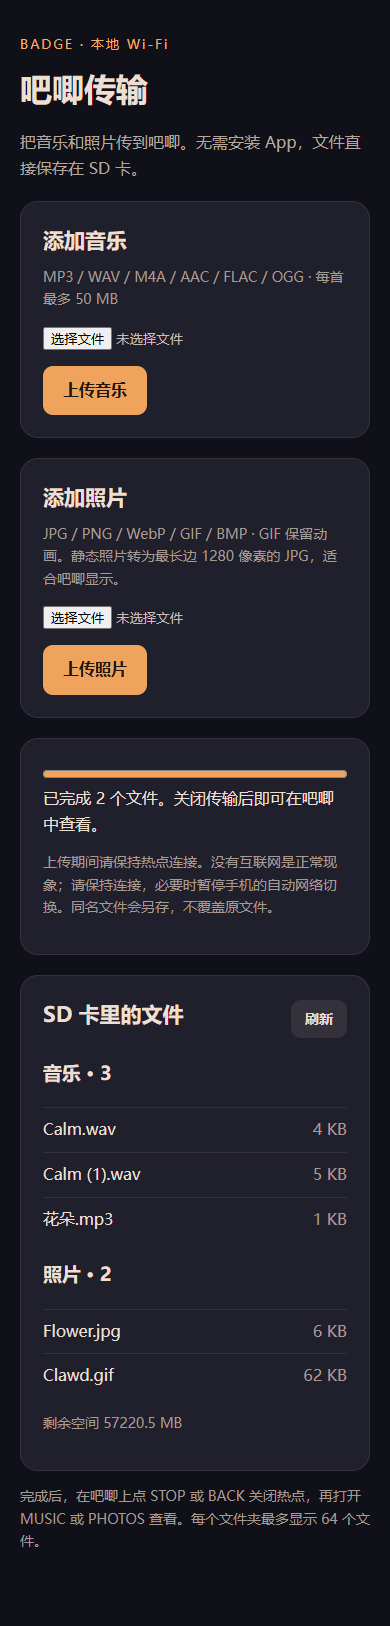
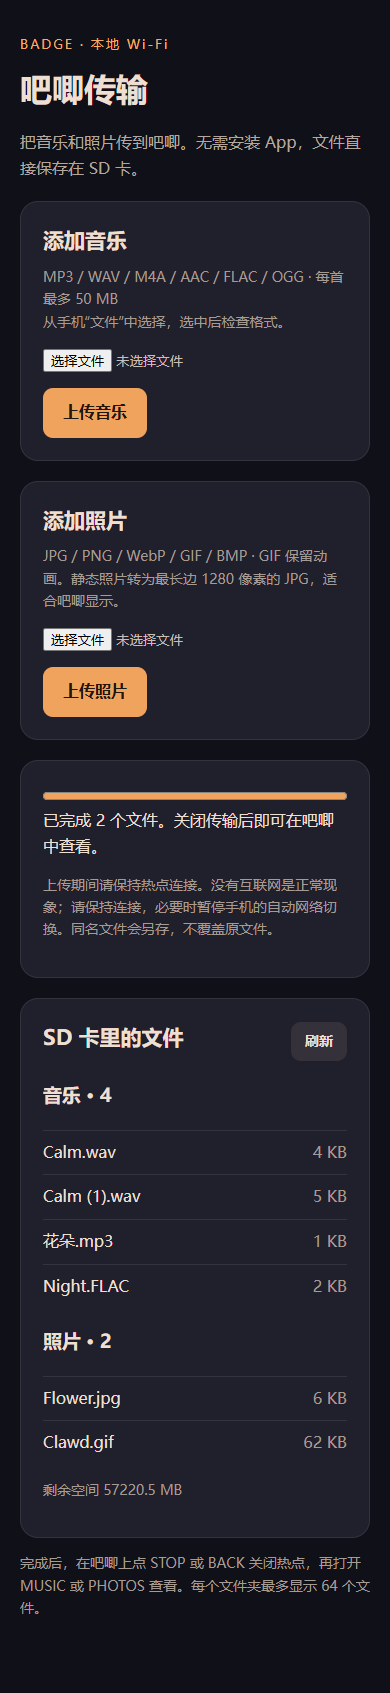
fix: allow FLAC selection in phone file pickers

diff --git a/lib/badge_transfer/src/BadgeTransfer.cpp b/lib/badge_transfer/src/BadgeTransfer.cpp
@@ -15,7 +15,7 @@ static std::atomic<bool> stopping{false};
 static const char WEB[] PROGMEM=R"HTML(<!doctype html><html lang="zh-CN"><meta charset="utf-8"><meta name="viewport" content="width=device-width,initial-scale=1"><title>吧唧传输</title>
 <style>*{box-sizing:border-box}body{margin:0;background:#101019;color:#eddfd1;font:16px/1.6 system-ui,sans-serif}main{max-width:760px;margin:auto;padding:34px 20px 60px}h1{margin:8px 0;font-size:32px}h2{font-size:21px;margin:0 0 8px}p{color:#b3a79e}.tag{color:#f4ac62;font-size:13px;letter-spacing:2px}.card{background:#20202c;border:1px solid #34323d;border-radius:18px;padding:22px;margin-top:20px}button,.pick{display:inline-block;background:#f0a35c;color:#21170f;border:0;border-radius:10px;padding:12px 20px;font:inherit;font-weight:650;cursor:pointer}input[type=file]{display:block;width:100%;margin:16px 0;color:#c8beb7}button:disabled{opacity:.45;cursor:wait}progress{width:100%;accent-color:#f0a35c;height:16px}.muted{color:#a69b93;font-size:14px}#result{white-space:pre-wrap;overflow-wrap:anywhere}.file{display:flex;justify-content:space-between;gap:16px;border-top:1px solid #34323d;padding:9px 0;overflow-wrap:anywhere}.file span:last-child{white-space:nowrap;color:#a69b93}.row{display:flex;justify-content:space-between;align-items:center;gap:16px}#refresh{padding:8px 14px;font-size:14px;background:#34313b;color:#eddfd1}</style>
 <main><div class="tag">BADGE · 本地 Wi-Fi</div><h1>吧唧传输</h1><p>把音乐和照片传到吧唧。无需安装 App，文件直接保存在 SD 卡。</p>
-<section class="card"><h2>添加音乐</h2><div class="muted">MP3 / WAV / M4A / AAC / FLAC / OGG · 每首最多 50 MB</div><input id="music" aria-label="选择音乐" type="file" multiple accept=".mp3,.wav,.m4a,.aac,.flac,.ogg"><button data-kind="music">上传音乐</button></section>
+<section class="card"><h2>添加音乐</h2><div class="muted">MP3 / WAV / M4A / AAC / FLAC / OGG · 每首最多 50 MB<br>从手机“文件”中选择，选中后检查格式。</div><input id="music" aria-label="选择音乐" type="file" multiple><button data-kind="music">上传音乐</button></section>
 <section class="card"><h2>添加照片</h2><div class="muted">JPG / PNG / WebP / GIF / BMP · GIF 保留动画。静态照片转为最长边 1280 像素的 JPG，适合吧唧显示。</div><input id="photos" aria-label="选择照片" type="file" multiple accept="image/jpeg,image/png,image/webp,image/gif,image/bmp,.bmp"><button data-kind="photos">上传照片</button></section>
 <section class="card" aria-live="polite"><progress id="progress" value="0" max="100"></progress><div id="result">等待选择文件</div><p class="muted">上传期间请保持热点连接。没有互联网是正常现象；请保持连接，必要时暂停手机的自动网络切换。同名文件会另存，不覆盖原文件。</p></section>
 <section class="card"><div class="row"><h2>SD 卡里的文件</h2><button id="refresh">刷新</button></div><div id="files">正在读取…</div></section><p class="muted">完成后，在吧唧上点 STOP 或 BACK 关闭热点，再打开 MUSIC 或 PHOTOS 查看。每个文件夹最多显示 64 个文件。</p></main>
@@ -24,7 +24,7 @@ const $=id=>document.getElementById(id);const size=n=>n>=1048576?(n/1048576).toF
 async function refresh(){try{const r=await fetch('/api/files',{cache:'no-store'});if(!r.ok)throw Error('读取失败');const d=await r.json();$('files').replaceChildren();for(const [label,key] of [['音乐','music'],['照片','photos']]){const h=document.createElement('h3');h.textContent=label+' · '+d[key].length;$('files').append(h);for(const f of d[key]){const row=document.createElement('div');row.className='file';for(const text of [f.name,size(f.bytes)]){const s=document.createElement('span');s.textContent=text;row.append(s)}$('files').append(row)}}const p=document.createElement('p');p.className='muted';p.textContent='剩余空间 '+size(d.free);$('files').append(p)}catch(e){$('files').textContent='连接中断，请检查热点连接后重试。'}}
 async function photo(file){if(/\.(gif|bmp)$/i.test(file.name))return file;const image=await createImageBitmap(file);const scale=Math.min(1,1280/Math.max(image.width,image.height));const canvas=document.createElement('canvas');canvas.width=Math.max(1,Math.round(image.width*scale));canvas.height=Math.max(1,Math.round(image.height*scale));const c=canvas.getContext('2d');c.fillStyle='#101019';c.fillRect(0,0,canvas.width,canvas.height);c.drawImage(image,0,0,canvas.width,canvas.height);image.close();const blob=await new Promise(resolve=>canvas.toBlob(resolve,'image/jpeg',.92));if(!blob)throw Error('图片转换失败');return new File([blob],file.name.replace(/\.[^.]+$/,'')+'.jpg',{type:'image/jpeg'});}
 function upload(kind,file,number,total){return new Promise((resolve,reject)=>{const x=new XMLHttpRequest();x.open('POST','/api/upload?kind='+kind+'&name='+encodeURIComponent(file.name));x.setRequestHeader('Content-Type','application/octet-stream');x.setRequestHeader('X-Badge-Upload','1');x.timeout=300000;x.upload.onprogress=e=>{if(e.lengthComputable){$('progress').value=e.loaded/e.total*100;$('result').textContent=number+' / '+total+' · '+file.name+'\n'+size(e.loaded)+' / '+size(e.total)}};x.onload=()=>{let d;try{d=JSON.parse(x.responseText)}catch{reject(Error('设备返回异常'));return}if(x.status===200)resolve(d);else reject(Error(d.error||'上传失败'))};x.onerror=()=>reject(Error('连接中断，未完成的文件不会加入相册或歌单'));x.ontimeout=()=>reject(Error('上传超时，请重试'));x.send(file)});}
-for(const button of document.querySelectorAll('[data-kind]'))button.onclick=async()=>{if(busy)return;const kind=button.dataset.kind,files=[...$(kind).files];if(!files.length){$('result').textContent='请先选择文件';return}busy=true;for(const b of document.querySelectorAll('button'))b.disabled=true;let done=0;try{for(let i=0;i<files.length;i++){let f=files[i];$('result').textContent='正在准备 '+f.name;if(kind==='photos')f=await photo(f);if(!f.size||f.size>50*1048576)throw Error(f.name+' 超过 50 MB 或为空');const result=await upload(kind,f,i+1,files.length);done++;$('result').textContent='已保存 '+result.name}$(kind).value='';$('progress').value=100;$('result').textContent='已完成 '+done+' 个文件。关闭传输后即可在吧唧中查看。'}catch(e){$('result').textContent='已完成 '+done+' 个文件。'+e.message}finally{busy=false;for(const b of document.querySelectorAll('button'))b.disabled=false;await refresh()}};
+for(const button of document.querySelectorAll('[data-kind]'))button.onclick=async()=>{if(busy)return;const kind=button.dataset.kind,files=[...$(kind).files];if(!files.length){$('result').textContent='请先选择文件';return}busy=true;for(const b of document.querySelectorAll('button'))b.disabled=true;let done=0;try{for(let i=0;i<files.length;i++){let f=files[i];$('result').textContent='正在准备 '+f.name;if(kind==='music'&&!/\.(mp3|wav|m4a|aac|flac|ogg)$/i.test(f.name))throw Error(f.name+' 不是支持的音乐格式，请选择 MP3 / WAV / M4A / AAC / FLAC / OGG');if(kind==='photos')f=await photo(f);if(!f.size||f.size>50*1048576)throw Error(f.name+' 超过 50 MB 或为空');const result=await upload(kind,f,i+1,files.length);done++;$('result').textContent='已保存 '+result.name}$(kind).value='';$('progress').value=100;$('result').textContent='已完成 '+done+' 个文件。关闭传输后即可在吧唧中查看。'}catch(e){$('result').textContent='已完成 '+done+' 个文件。'+e.message}finally{busy=false;for(const b of document.querySelectorAll('button'))b.disabled=false;await refresh()}};
 $('refresh').onclick=refresh;refresh();
 </script></html>)HTML";
 

diff --git a/README.md b/README.md
@@ -287,7 +287,8 @@ the integrated voice pet retains its own assistant networking configuration.
 3. 选择音乐或照片，可批量上传，网页显示进度和 SD 卡文件列表。
 4. 完成后在吧唧点 STOP / BACK，或长按 BOOT 返回主页，再打开 MUSIC / PHOTOS 即可重新扫描。
 
-音乐支持 MP3、WAV、M4A/AAC、FLAC、OGG。网页将静态 JPG/PNG/WebP 转为最长边
+音乐支持 MP3、WAV、M4A/AAC、FLAC、OGG。音乐选择器显示所有文件，选中后再检查格式，
+避免部分手机将 FLAC 错误置灰；从手机“文件”中选择即可。网页将静态 JPG/PNG/WebP 转为最长边
 1280 像素的 JPG，兼容相册解码器；GIF 和 BMP 原样上传，GIF 保留动画。
 单个上传文件上限 50 MiB，每个文件夹最多 64 个媒体文件。同名文件自动添加数字后缀，
 已有内容不覆盖；上传中断会删除临时数据，完整写入后才加入歌单或相册。
